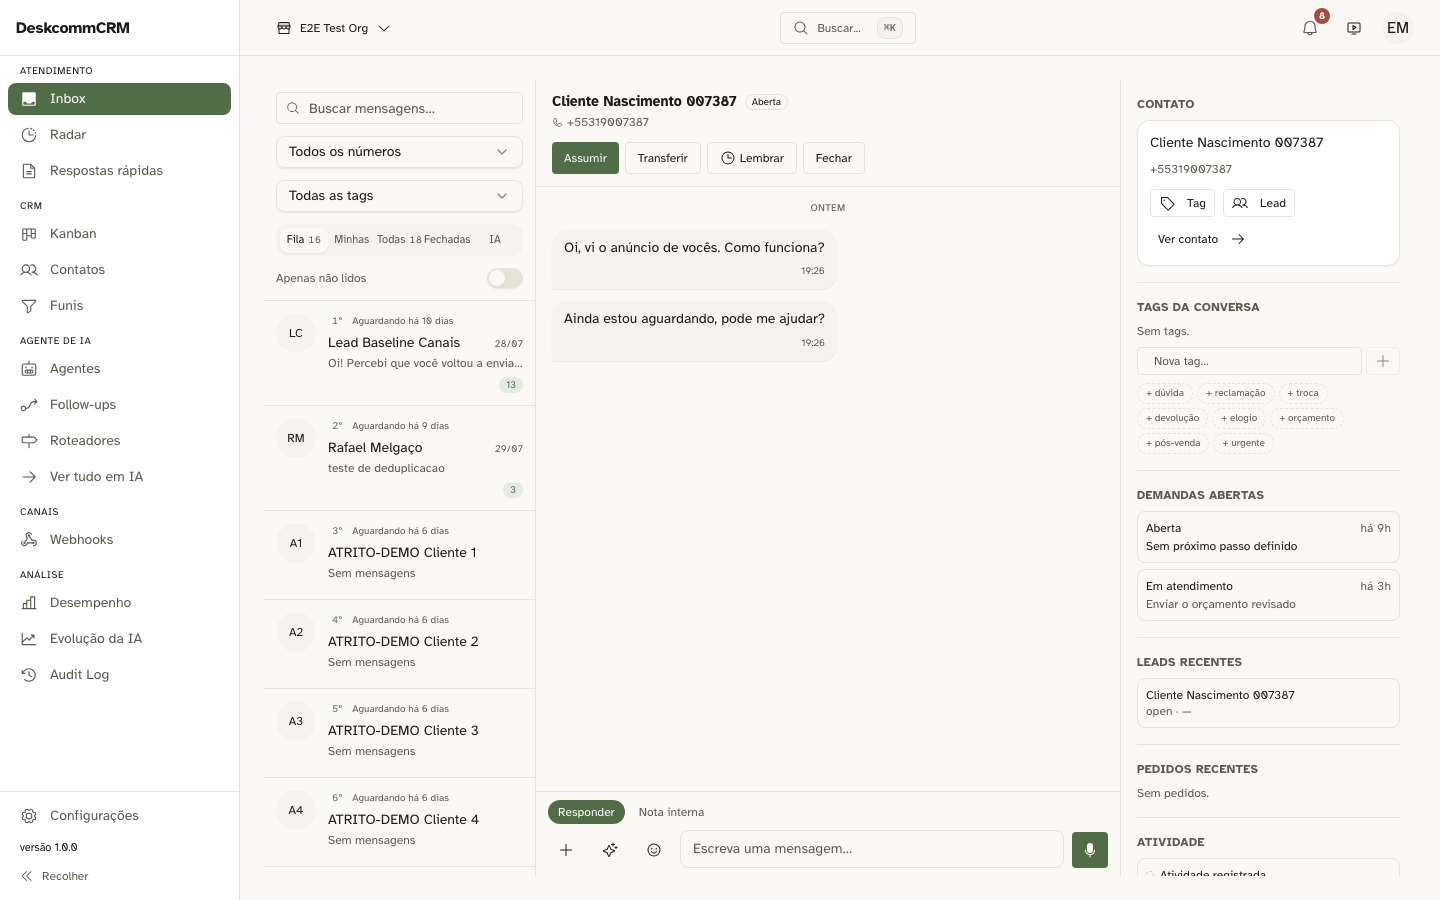
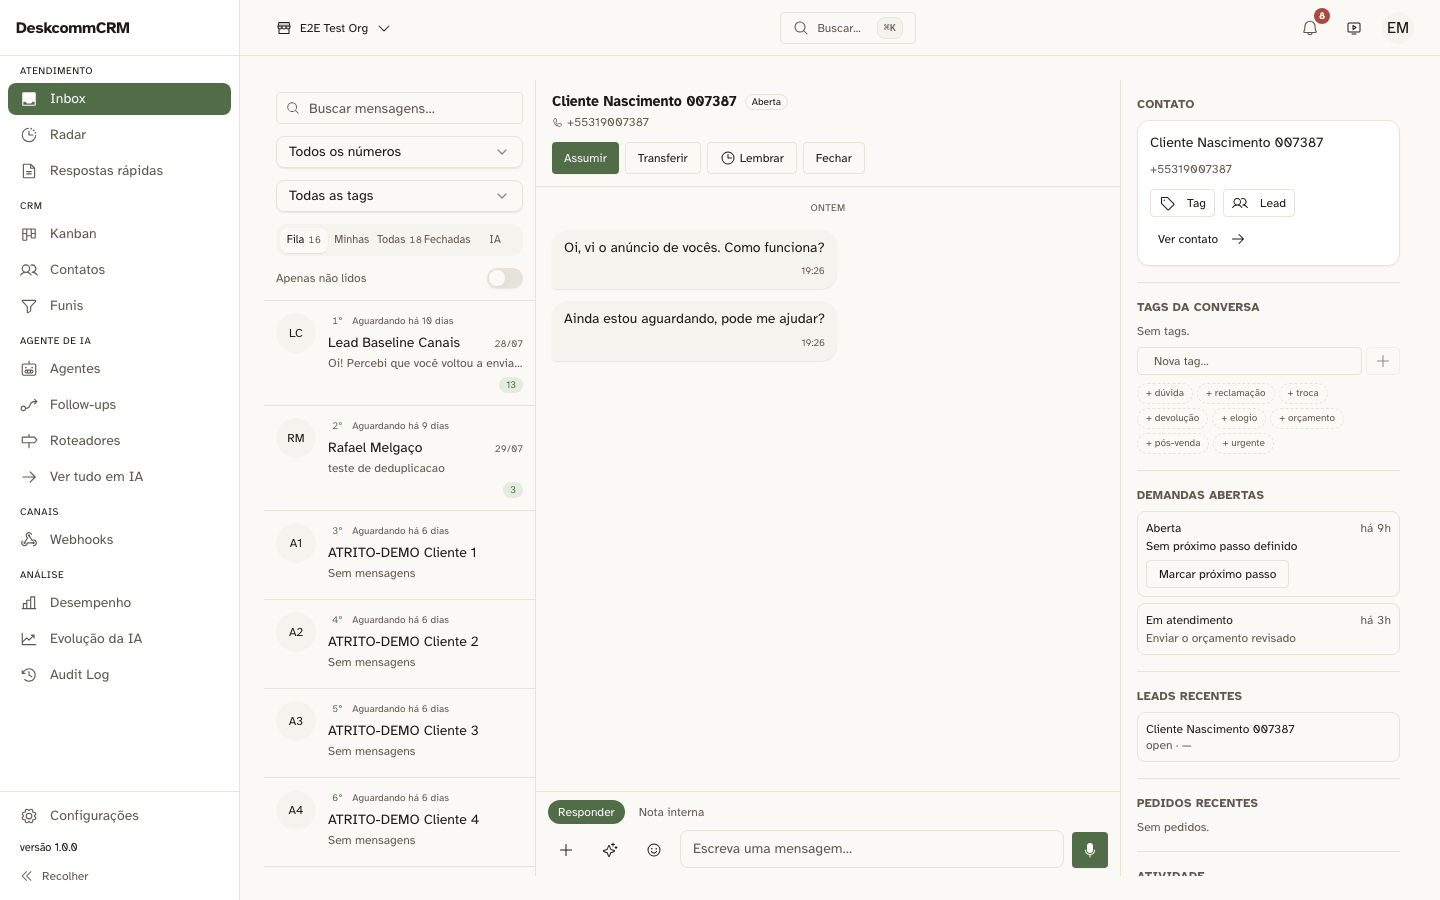
test(inbox): o ciclo do próximo passo, provado no banco — e o instrumento que mentia
Fecha a lacuna declarada no commit anterior. O Docker travado não tinha outro
caminho além de matar e subir de novo (confirmado pelo Rafael por experiência);
depois disso a sonda rodou, e o caminho até o verde foi todo em falso positivo.

## A prova (21/21, exit 0)

    CICLO: statusPatch            200
           noBancoDepois          "Enviar o orçamento revisado
                                   Enviar a segunda via do boleto"   ← gravou
           aindaSemPasso          0
           naTelaDepois.sem_passo 0     ← a tela releu e o vazamento sumiu
           audit                  1     ← demanda.proximo_passo_definido

A confirmação vem do BANCO, não de uma mensagem de sucesso na tela — é assim que
o bug conhecido de `organizations` engana (PostgREST devolve 200 tendo casado
zero linhas).

## Os três falsos positivos do caminho

1. **O Supabase caiu no meio da sessão.** Medido, não suposto: `curl` no kong
   devolveu 000 enquanto o app respondia 200, e depois o daemon do Docker parou
   de responder. Controle que fechou o diagnóstico: a sonda de layout, verde
   minutos antes, passou a falhar NO MESMO PONTO — era ambiente, não edição.

2. **Uma asserção minha reprovou produto correto.** `noBancoDepois === PASSO`
   comparava uma string com o resultado de uma consulta que devolve TODAS as
   demandas da marca com próximo passo — a semeada já com passo, e a
   recém-marcada. Trocada por `includes`. O produto estava certo; a régua é que
   estava errada.
[…]

Changed region(s): [[0.7812, 0.6222, 0.9062, 0.9956], [0.9375, 0.6844, 0.9688, 0.7156], [0.9375, 0.6222, 0.9688, 0.6533]]

diff --git a/tests/sonda-inbox-demandas-tela.ts b/tests/sonda-inbox-demandas-tela.ts
@@ -60,6 +60,44 @@ function semear(): number {
   );
 }
 
+/**
+ * Login que CONFERE o que digitou antes de submeter.
+ *
+ * `page.fill()` não serve: o form usa react-hook-form, que escuta eventos de
+ * teclado e ignora o valor setado direto. E `pressSequentially` sozinho é
+ * intermitente — enquanto a página ainda monta, caracteres se perdem, o campo
+ * fica com um e-mail truncado, e o servidor responde `auth.login_failed`.
+ *
+ * Isso apareceu como falha ALEATÓRIA de login: duas rodadas falharam com
+ * buckets `auth:login_fail:id:` de hashes DIFERENTES — mesmo usuário daria o
+ * mesmo hash, então o que variava era o texto que chegou. Um instrumento que
+ * erra às vezes é pior que um que erra sempre: leva a diagnosticar o produto.
+ */
+async function entrar(p: import("@playwright/test").Page): Promise<void> {
+  await p.goto(`${BASE}/login`, { waitUntil: "domcontentloaded" });
+  const email = p.locator('input[type="email"]');
+  const senha = p.locator('input[type="password"]');
+  await email.waitFor({ state: "visible" });
+
+  for (let tentativa = 1; tentativa <= 3; tentativa += 1) {
+    await email.fill("");
+    await email.click();
+    await email.pressSequentially(c.users.manager.email, { delay: 12 });
+    await senha.fill("");
+    await senha.click();
+    await senha.pressSequentially(c.password, { delay: 12 });
+    const digitado = await email.inputValue();
+    const senhaOk = (await senha.inputValue()).length === c.password.length;
+    if (digitado === c.users.manager.email && senhaOk) break;
+    if (tentativa === 3) {
+      throw new Error(`campo não aceitou o texto: "${digitado}" (esperado "${c.users.manager.email}")`);
+    }
+  }
+
+  await p.click('button[type="submit"]');
+  await p.waitForURL(/\/app/, { timeout: 30000 });
+}
+
 async function main(): Promise<void> {
   const noBanco = semear();
   const b = await chromium.launch();
@@ -73,13 +111,7 @@ async function main(): Promise<void> {
     if (r.url().includes("/crm-summary")) statusSummary = r.status();
   });
 
-  await p.goto(`${BASE}/login`, { waitUntil: "domcontentloaded" });
-  await p.click('input[type="email"]');
-  await p.locator('input[type="email"]').pressSequentially(c.users.manager.email, { delay: 8 });
-  await p.click('input[type="password"]');
-  await p.locator('input[type="password"]').pressSequentially(c.password, { delay: 8 });
-  await p.click('button[type="submit"]');
-  await p.waitForURL(/\/app/, { timeout: 30000 });
+  await entrar(p);
 
   await p.goto(`${BASE}/app/inbox?id=${CONVERSA}`, { waitUntil: "networkidle" });
   await p.waitForTimeout(3000);
@@ -225,7 +257,11 @@ async function main(): Promise<void> {
     ["sob falha: NÃO afirma 'nenhuma demanda aberta'", falha.mente === false],
     ["sob falha: oferece tentar de novo", falha.oferece_retry === true],
     ["ciclo: o PATCH respondeu 200", statusPatch === 200],
-    ["ciclo: o BANCO gravou o próximo passo", noBancoDepois === PASSO],
+    // `includes`, não igualdade: a consulta devolve TODAS as demandas da marca
+    // que têm próximo passo — a semeada já com passo, e a que acabou de ser
+    // marcada. A primeira versão comparava com uma string só e reprovava um
+    // produto correto; era a asserção que estava errada, não o app.
+    ["ciclo: o BANCO gravou o próximo passo", noBancoDepois.includes(PASSO)],
     ["ciclo: sobrou 1 demanda sem passo (a outra já tinha)", aindaSemPasso === 0],
     ["ciclo: a tela releu e a demanda saiu do estado de vazamento", naTelaDepois.sem_passo === 0],
     ["ciclo: o texto novo aparece na tela", naTelaDepois.texto.includes(PASSO)],

diff --git a/docs/handoffs/HANDOFF-indice-de-atrito.md b/docs/handoffs/HANDOFF-indice-de-atrito.md
@@ -856,32 +856,49 @@ sucesso (é assim que o bug conhecido de `organizations` engana).
 Sabotagens: botão em toda demanda → 1 → **1**; salvar sem chamar o PATCH →
 1 → **2**; falha fechando o campo → 1 → **1**.
 
-### ⚠ NÃO MEDIDO — a prova de tela do ciclo de escrita
+### ✅ O ciclo completo, provado na tela (21/21, exit 0)
 
-A sonda `tests/sonda-inbox-demandas-tela.ts` foi estendida com o ciclo completo
-(clicar → escrever → salvar → **conferir no banco** → conferir o audit) e
-**não chegou a rodar**: o Supabase local caiu no meio da sessão. Medido, não
-suposto — `curl` no kong devolveu `000` enquanto o app respondia `200`, e depois
-o próprio daemon do Docker parou de responder (`docker ps -a` sem retorno em
-90s).
+`tests/sonda-inbox-demandas-tela.ts` — clicar → escrever → salvar →
+**conferir no banco** → conferir o audit:
 
-Diagnóstico com controle: a sonda de layout, que rodara verde minutos antes,
-passou a falhar **no mesmo ponto** (o login). Não era a edição nova; era o
-ambiente.
-
-Não reiniciei o Docker Desktop porque isso derrubaria containers da máquina que
-eu não inventariei.
-
-**O que está provado do ciclo:** 8 casos de componente com `apiClient` espionado
-(a rota certa, o corpo certo, o relê do servidor, e a falha que não apaga o
-texto), com as três sabotagens acima. **O que falta:** que a rota responda 200
-contra o banco real, que a linha mude em `demandas`, e que o audit apareça. O
-código da sonda está escrito e versionado — basta o Supabase voltar:
-
-```bash
-npx supabase start
-E2E_PORT=3101 npx tsx tests/sonda-inbox-demandas-tela.ts   # espera 21/21
 ```
+CICLO: statusPatch          200
+       noBancoDepois        "Enviar o orçamento revisado
+                             Enviar a segunda via do boleto"   ← gravou
+       aindaSemPasso        0
+       naTelaDepois.sem_passo  0      ← a tela releu e o vazamento sumiu
+       audit                1         ← demanda.proximo_passo_definido
+```
+
+Evidência: [depois de marcar](passo4-inbox-proximo-passo.png). A confirmação vem
+do **banco**, não de uma mensagem de sucesso na tela — é assim que o bug conhecido
+de `organizations` engana (PostgREST devolve 200 tendo casado zero linhas).
+
+### O caminho até essa prova, porque ele foi todo em falso positivo
+
+**1. O Supabase local caiu no meio da sessão.** Medido, não suposto: `curl` no
+kong devolveu `000` enquanto o app respondia `200`, e depois o próprio daemon do
+Docker parou de responder. Controle que fechou o diagnóstico: a sonda de layout,
+verde minutos antes, passou a falhar **no mesmo ponto**. Era ambiente, não
+edição. Resolvido matando e subindo o Docker de novo — o Rafael confirmou por
+experiência que travado assim não tem outro jeito.
+
+**2. Uma asserção MINHA reprovou produto correto.** `noBancoDepois === PASSO`
+comparava uma string com o resultado de uma consulta que devolve **todas** as
+demandas da marca com próximo passo — a semeada já com passo, e a recém-marcada.
+Trocado por `includes`. O produto estava certo o tempo todo; a régua é que
+estava errada.
+
+**3. O login da sonda era INTERMITENTE — e o rastro dizia onde olhar.** Duas
+rodadas falharam com buckets `auth:login_fail:id:` de **hashes diferentes**
+(`f5e9836…` e `30ebfc5…`). Mesmo usuário daria o mesmo hash, então o que variava
+era o texto que chegava: `pressSequentially` perdia caracteres enquanto a página
+montava, e o servidor via um e-mail truncado. Não era rate limit — o audit
+mostrou `auth.login_failed`, nunca `auth.login_rate_limited`.
+
+Consertado com um `entrar()` que **confere o que digitou** antes de submeter, com
+até 3 tentativas e erro explícito se o campo não aceitar. Instrumento que erra às
+vezes é pior que um que erra sempre: leva a diagnosticar o produto.
 
 ---
 
